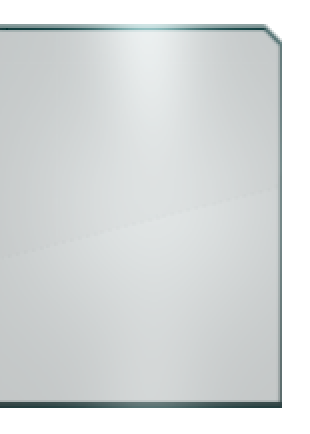
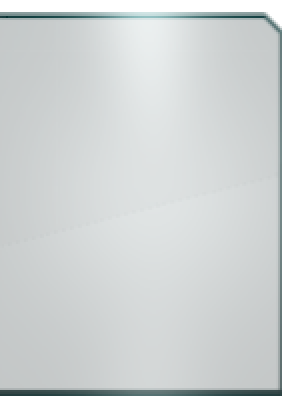
Made entity name query routine more efficient, tweaked level select pane glow

Changed region(s): [[0.0, 0.0293, 0.9381, 0.9682]]

diff --git a/js/core/Entity.js b/js/core/Entity.js
@@ -288,14 +288,15 @@ function Entity( name )
 	{
 		for ( var c = 0 ; c < children.length ; c++ ) {
 			var child = children[c];
-			var search = child.$( query );
 
 			if ( child.name === query ) {
 				return child;
-			}
+			} else {
+				var search = child.$( query );
 
-			if ( search !== null ) {
-				return search;
+				if ( search !== null ) {
+					return search;
+				}
 			}
 		}
 

diff --git a/js/core/scenes/TitleScene.js b/js/core/scenes/TitleScene.js
@@ -452,8 +452,8 @@ function TitleScene( controller )
 					)
 					.add(
 						new Flicker()
-							.setAlphaRange( 0.2, 0.5 )
-							.setTimeRange( 0.3, 0.5 )
+							.setAlphaRange( 0.1, 0.25 )
+							.setTimeRange( 0.2, 0.5 )
 					)
 			)
 			.addChild(

diff --git a/js/main.js b/js/main.js
@@ -112,7 +112,7 @@ function loadGame()
 	} )
 	.then( function() {
 		var controller = new Controller();
-		controller.showGame();
+		controller.showTitle();
 	} );
 }
 
